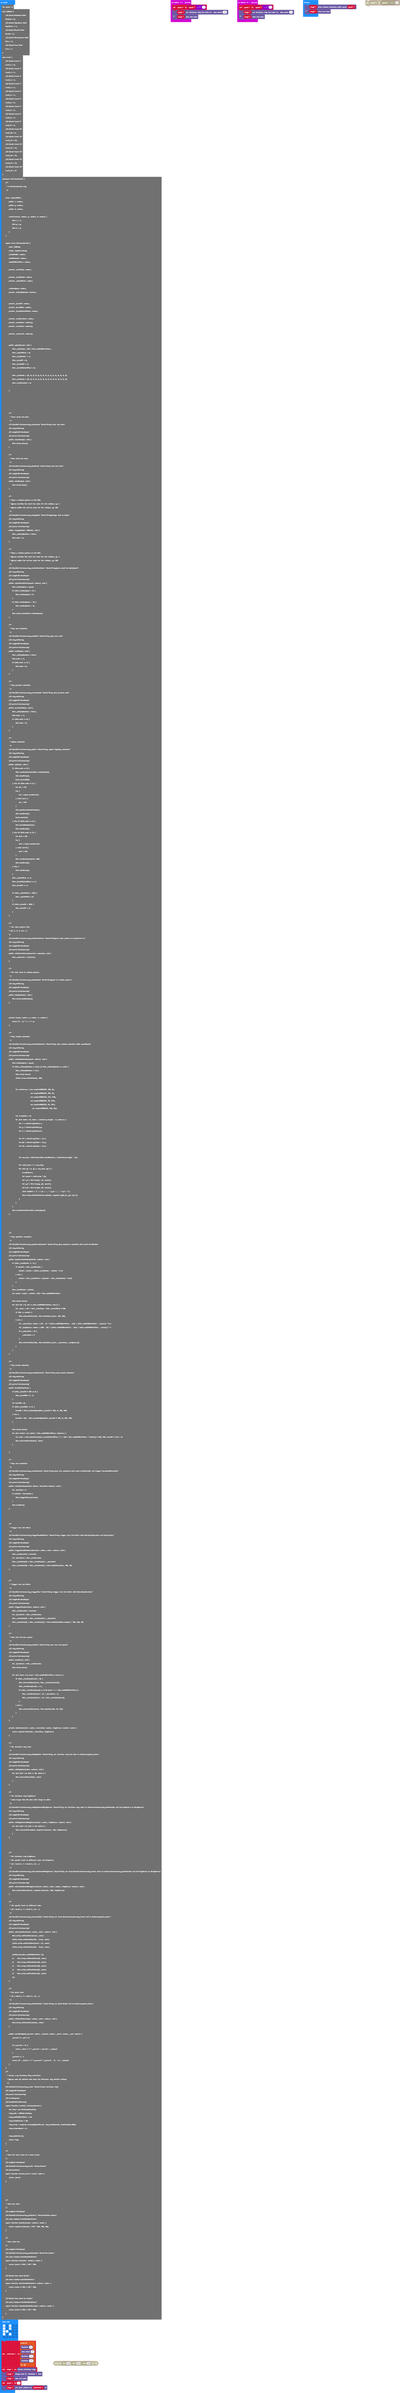
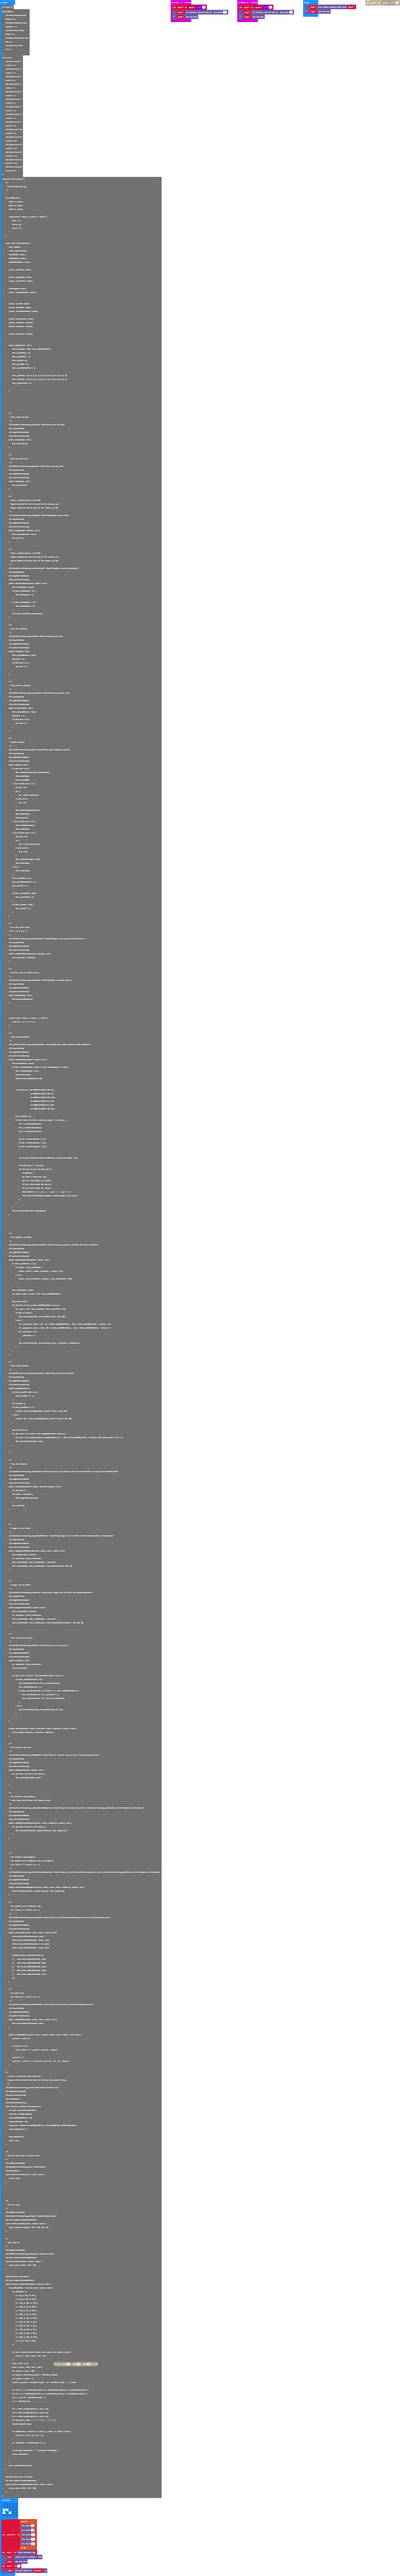
test4

Changed region(s): [[0.0, 0.0, 0.4051, 1.0], [0.5921, 0.0, 0.6544, 0.0311], [0.4363, 0.0, 0.4986, 0.0311]]

diff --git a/main.ts b/main.ts
@@ -253,6 +253,56 @@ namespace ChristmasWreath {
             }
         }
 
+        private applyColorPattern() {
+            if (this._colorList.length <= 2) {
+                this._colorList = [0,
+                                   0]
+            }
+            let colorArray = [];
+            for (let i = 0; i < this._colorList.length; i++) {
+                let _r = (this._colorList[i] >> 16) & 255;
+                let _g = (this._colorList[i] >> 8) & 255;
+                let _b = this._colorList[i] & 255;
+                colorArray[i] = {
+                    r: _r,
+                    g: _g,
+                    b: _b,
+                }
+            }
+
+            // let colorArray = [new RGBVector3(255, 169, 0),
+            //     new RGBVector3(249, 209, 0),
+            //     new RGBVector3(116, 213, 245),
+            //     new RGBVector3(255, 38, 141),
+            //     new RGBVector3(145, 52, 137),
+            //     new RGBVector3(255, 169, 0)];
+
+            let arrayIndex = 0;
+            for (let index = 0; index < colorArray.length - 1; index++) {
+                let r = colorArray[index].r;
+                let g = colorArray[index].g;
+                let b = colorArray[index].b;
+
+                let rD = colorArray[index + 1].r;
+                let gD = colorArray[index + 1].g;
+                let bD = colorArray[index + 1].b;
+
+
+                let num_step = Math.floor(this.totalNumLeds / (colorArray.length - 1));
+
+                let small_step = 1 / num_step;
+                for (let jj = 1; jj <= num_step; jj++) {
+                    arrayIndex++;
+                    let amount = small_step * jj;
+                    let r_0 = this.lerp(r, rD, amount);
+                    let g_0 = this.lerp(g, gD, amount);
+                    let b_0 = this.lerp(b, bD, amount);
+                    //let tmpHtml = '(' + r_0 + ', ' + g_0 + ', ' + b_0 + ')';
+                    this.strip.setPixelColor(arrayIndex, neopixel.rgb(r_0, g_0, b_0));
+                }
+            }
+        }
+
         /**
          * Set color pattern list
         * (0, 1, 2, 3, etc...)
@@ -262,7 +312,11 @@ namespace ChristmasWreath {
         //% weight=90 blockGap=8
         //% parts="christmasring"
         public setColorPattern(colorList: number[]): void {
-            this._colorList = colorList;            
+            this._colorList = [];
+            for (let i =0; i < colorList.length; i++){
+                this._colorList[i] = colorList[i];
+            }            
+            this.applyColorPattern();
         }
 
         /**
@@ -296,38 +350,8 @@ namespace ChristmasWreath {
                 this.strip.clear()
                 //this.strip.showRainbow(1, 360)
                 
+                this.applyColorPattern();
                 
-                let colorArray = [new RGBVector3(255, 169, 0),
-                                  new RGBVector3(249, 209, 0),
-                                  new RGBVector3(116, 213, 245),
-                                  new RGBVector3(255, 38, 141),
-                                  new RGBVector3(145, 52, 137),
-                                    new RGBVector3(255, 169, 0)];
-
-                let arrayIndex = 0;
-                for (let index = 0; index < colorArray.length - 1; index++) {
-                    let r = colorArray[index].r;
-                    let g = colorArray[index].g;
-                    let b = colorArray[index].b;
-
-                    let rD = colorArray[index + 1].r;
-                    let gD = colorArray[index + 1].g;
-                    let bD = colorArray[index + 1].b;
-
-
-                    let num_step = Math.floor(this.totalNumLeds / (colorArray.length - 1));
-                    
-                    let small_step = 1 / num_step;
-                    for (let jj = 1; jj <= num_step; jj++) {
-                        arrayIndex++;
-                        let amount = small_step * jj;
-                        let r_0 = this.lerp(r, rD, amount);
-                        let g_0 = this.lerp(g, gD, amount);
-                        let b_0 = this.lerp(b, bD, amount);
-                        //let tmpHtml = '(' + r_0 + ', ' + g_0 + ', ' + b_0 + ')';
-                        this.strip.setPixelColor(arrayIndex, neopixel.rgb(r_0, g_0, b_0 ));
-                    }
-                }
             }
             this.rotatePixelColor(this.rainbowSpeed)
         }
@@ -655,7 +679,17 @@ namespace ChristmasWreath {
             let fullColorHex = function (r: number, g: number, b: number): number {                
                 return ((r << 16) + (g << 8) + b);
             }
-            return fullColorHex(r,g,b);
+            let colorNumber = fullColorHex(r, g, b);
+            
+            let hexToRgb = function (hex: number):string {
+                console.log("hex" + hex);
+                let RR = '' + (hex >> 16).toString();
+                let GG = ''; //(hex >> 8).toString();
+                let BB = ''; //(hex >> 0).toString();
+                return "" + RR + GG + BB;
+            }
+            console.log("colorNumber = " + hexToRgb(colorNumber) );
+            return colorNumber;
 
         }
         return getWheelColor(color);        
@@ -668,17 +702,18 @@ namespace ChristmasWreath {
     }
 }
 basic.showLeds(`
-    # . # . .
-    # . # . .
+    # # . . .
+    . . . . .
     # # . . .
     # . # . .
     . . . . .
     `)
-let colorList = [
-ChristmasWreath.hueColor(64),
-ChristmasWreath.showColorWheel(67),
-ChristmasWreath.hueColor(113),
-ChristmasWreath.hueColor(161)
+let colorList:number[] = [
+    ChristmasWreath.showColorWheel(47),
+    ChristmasWreath.showColorWheel(50),
+    ChristmasWreath.showColorWheel(18),
+    ChristmasWreath.showColorWheel(128),
+    ChristmasWreath.showColorWheel(210)
 ]
 ring2 = ChristmasWreath.create()
 ring2.changeMode(LEDMode.Rainbow)
